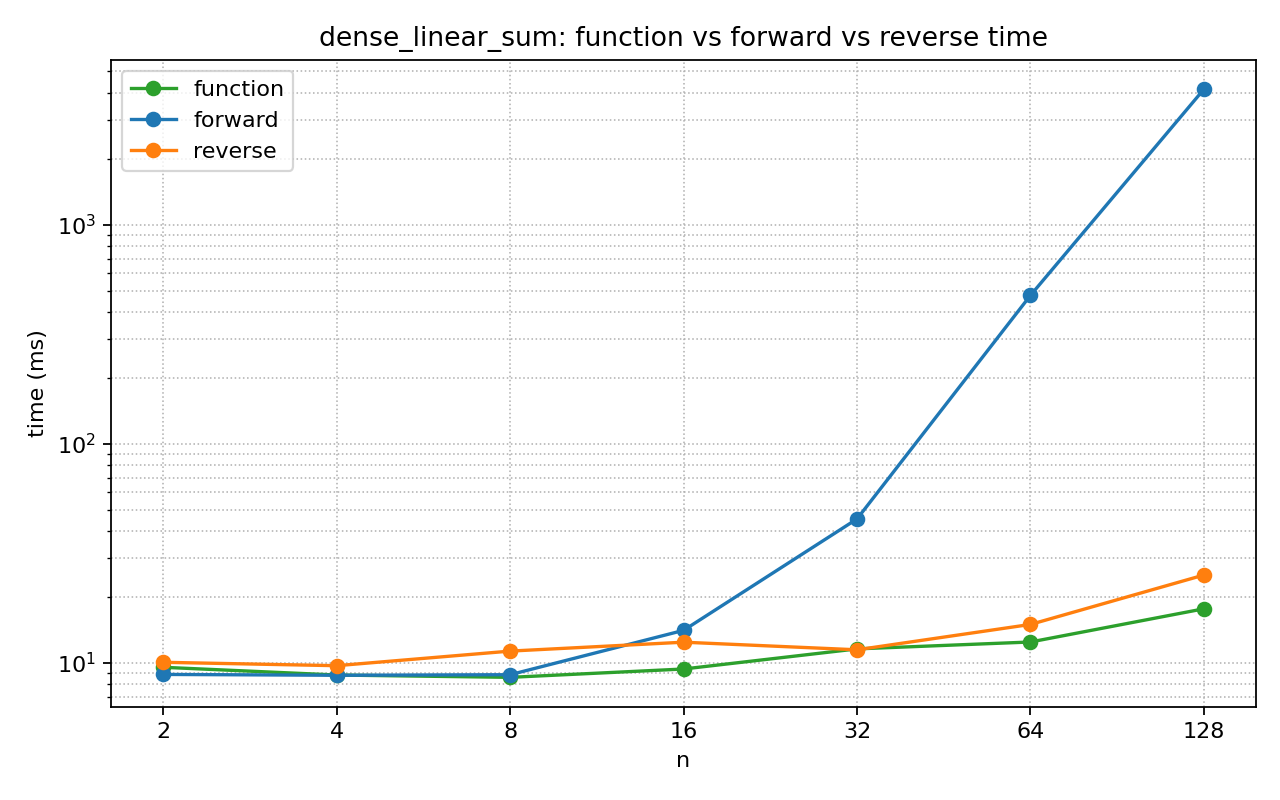
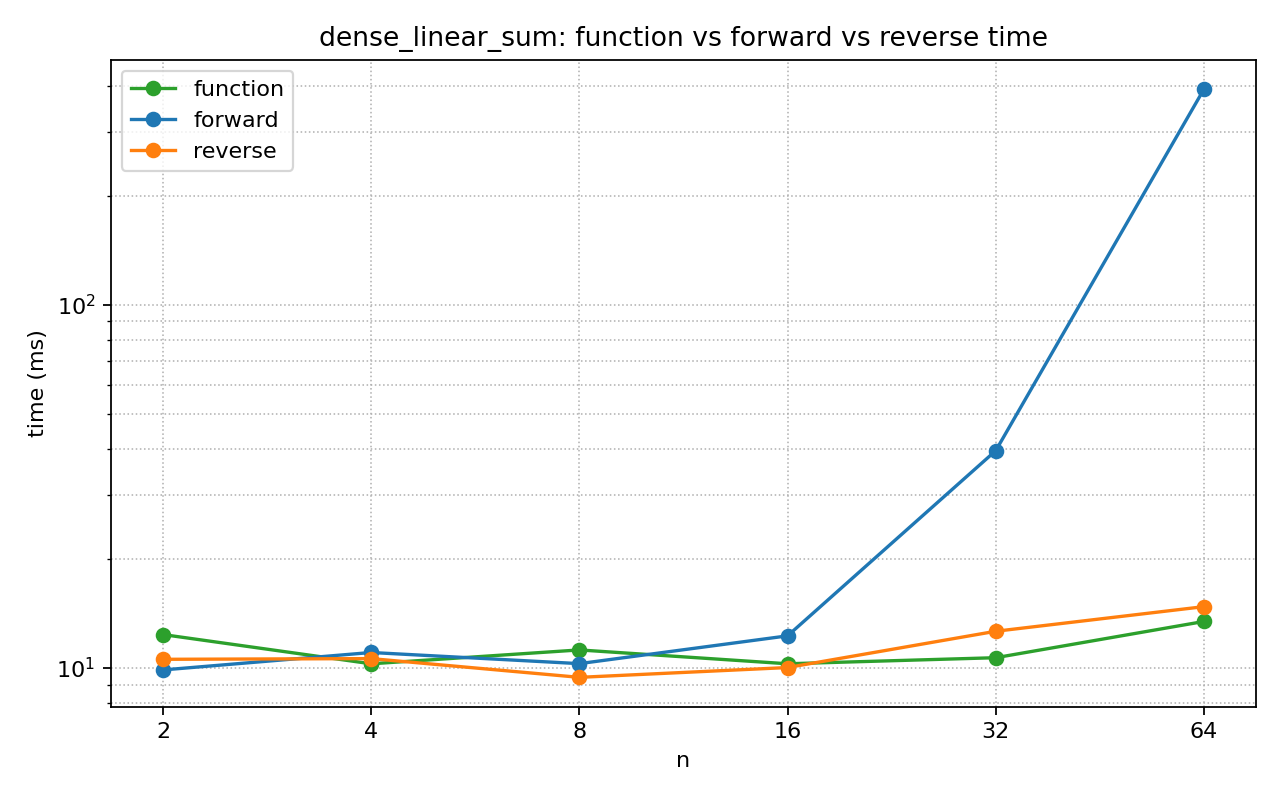
So far

diff --git a/README.md b/README.md
@@ -89,13 +89,17 @@ dune exec diff_ppl -- --reverse --ad-dual theta=0.5 dtheta=1 alpha=0.2 dalpha=1 
 Supports:
 
 * plain discretization
-* `--print-all` for source/normalized/typed/discretized output
+* `--print-all` for source/normalized/typed/discretized output and the number
+  of enumerated discrete paths
+* `--enumerated-paths` for only the selected path count (the naive count by
+  default, or the compiled count with `--compile`)
 * `--expect` for evaluation/expectation of the program
 * `--ad` for simplified gradient output
 * `--print-all --ad` for raw + simplified gradient output
 * `--ad-dual` for simplified dual output
 * `--print-all --ad-dual` for raw + simplified dual output
 * `--forward` or `--reverse` to choose AD mode; forward is the default if no flag is specified
+* `--compile` to compile the finite discrete program to an arithmetic circuit before evaluation or AD
 * `--at PARAM=VALUE` for concrete evaluation for AD modes
 * `PARAM=VALUE` for concrete substitution and `dPARAM=SEED` for explicit seeding
 
@@ -112,13 +116,37 @@ before the simplified AD output.
 
 *** Currently, every differentiable input variable is assumed to be a scalar float.
 
+In `--compile` mode, each random float carries an expected-value arithmetic
+node and a lazy exact decision diagram. Addition, subtraction, deterministic
+scaling, and products of independent random values use the summaries without
+constructing a joint DD. An operation that needs correlation information
+forces the exact DD on demand. Since only the first moment is currently
+tracked, a correlated product such as `s * s` uses this exact-DD fallback.
+
+Stats:
+
+- Allocated random variables: Fresh random variable IDs created for discrete calls.
+- Reachable random variables: Random variables that still influence the result
+- Additive terms: Separate DD components preserved using linearity of expectation
+- Summed terms: Top-level terms summed by the compiled, factorized arithmetic circuit
+- Allocated decision nodes: All unique DD nodes built during lowering
+- Reachable decision nodes: DD nodes visited when eliminating the final additive components
+- Allocated arithmetic nodes: All unique arithmetic nodes created during lowering and elimination
+- Reachable arithmetic nodes: Arithmetic nodes needed to evaluate the final root
+
+With `--compile --print-all`, the enumerated-path section reports both the
+number of weighted paths materialized by the ordinary expectation transform
+and the number of top-level terms summed by the compiled arithmetic circuit.
+
 AD modes also accept `--at PARAM=VALUE` or `--at=PARAM=VALUE`. This uses
 `VALUE` when ordering symbolic discretization cuts, substitutes `VALUE` into
 the raw AD program, and then simplifies the simplified AD program again at that
 concrete point.
 
 AD modes can also accept bare assignments before the input file. `PARAM=VALUE`
-substitutes a concrete value, and `dPARAM=SEED` sets the AD seed for `PARAM`.
+substitutes a concrete value and participates in cut ordering only when the
+assigned parameter occurs in a symbolic cut. `dPARAM=SEED` sets the AD seed
+for `PARAM`.
 If explicit `dPARAM=SEED` assignments are provided, unspecified variables get
 seed `0`. In forward mode, if no explicit seeds are provided, all free float
 variables are seeded one at a time to produce the gradient vector.
